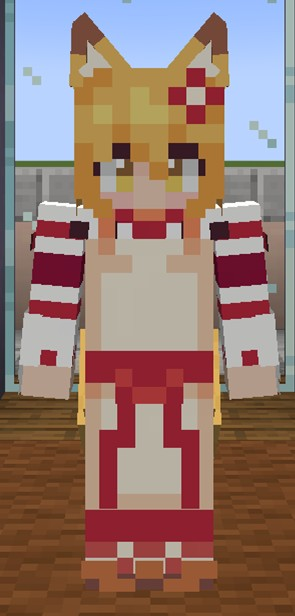
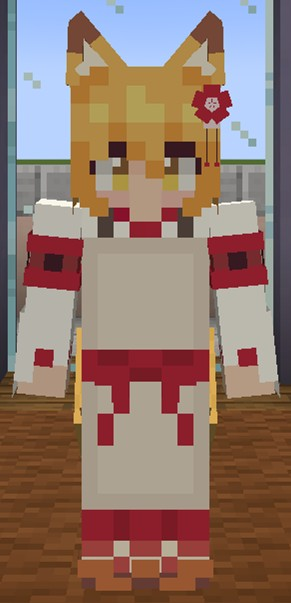
寝巻きを衣装として選択可能に

diff --git a/衣装一覧.md b/衣装一覧.md
@@ -1,40 +1,45 @@
 # 衣装一覧
-キャラクターに着せられる衣装の一覧です。アクションホイールの2ページ目から衣装を着せ替えられます。[設定ファイル](./scripts/config.lua)の``ConfigClass.DefaultCostume``の値を変更することで、デフォルトの服を変更できます。
+キャラクターに着せられる衣装の一覧です。[アバター設定](../SenkoSan/README.md#アバター設定)から衣装を着せ替えられます。（一部の衣装の写真は古い場合があります。）
 
-## いつもの服（ID：1）
+## いつもの服
 ![いつもの服](README_images/通常の服.jpg)
 
-## 変装服（ID：2）
+## 寝巻き
+第2話で登場した服です。
+
+![寝巻き](README_images/寝巻き.jpg)
+
+## 変装服
 第3話で登場した服です。
 
 ![変装服](README_images/変装服.jpg)
 
-## メイド服A（ID：3）
+## メイド服A
 第6話で登場した服です。
 
 ![メイド服A](README_images/メイド服A.jpg)
 
-## メイド服B（ID：4）
+## メイド服B
 第6話で登場した、大正ロマン風のメイド服です。
 
 ![メイド服B](README_images/メイド服B.jpg)
 
-## 水着（ID：5）
-第8話で登場した服です。麦わら帽子は頭に防具を装備すると表示されます。
+## 水着
+第8話で登場した服です。麦わら帽子は頭に防具を装備すると表示されます。麦わら帽子は、ヘルメット（素材は問わない）を被ると表示されます。
 
-![水着と麦わら帽子](README_images/水着.jpg)
+![水着](README_images/水着.jpg)
 
-## チアリーダーの服（ID：6）
+## チアリーダーの服
 なんか手元にアクリルスタンドがあったので、それを基に作りました。ポンポンは、アイテムを手に持っている場合やアニメーション再生中は非表示になります。（実際に画像のようなポーズはとれません）
 
 ![チアリーダー](README_images/チアリーダー.jpg)
 
-## 清めの服（ID：7）
+## 清めの服
 第8話で登場した服です。
 
 ![清めの服](README_images/清めの服.jpg)
 
-## 割烹着（ID：8）
+## 割烹着
 第11話で登場した服です。
 
 ![割烹着](README_images/割烹着.jpg)
